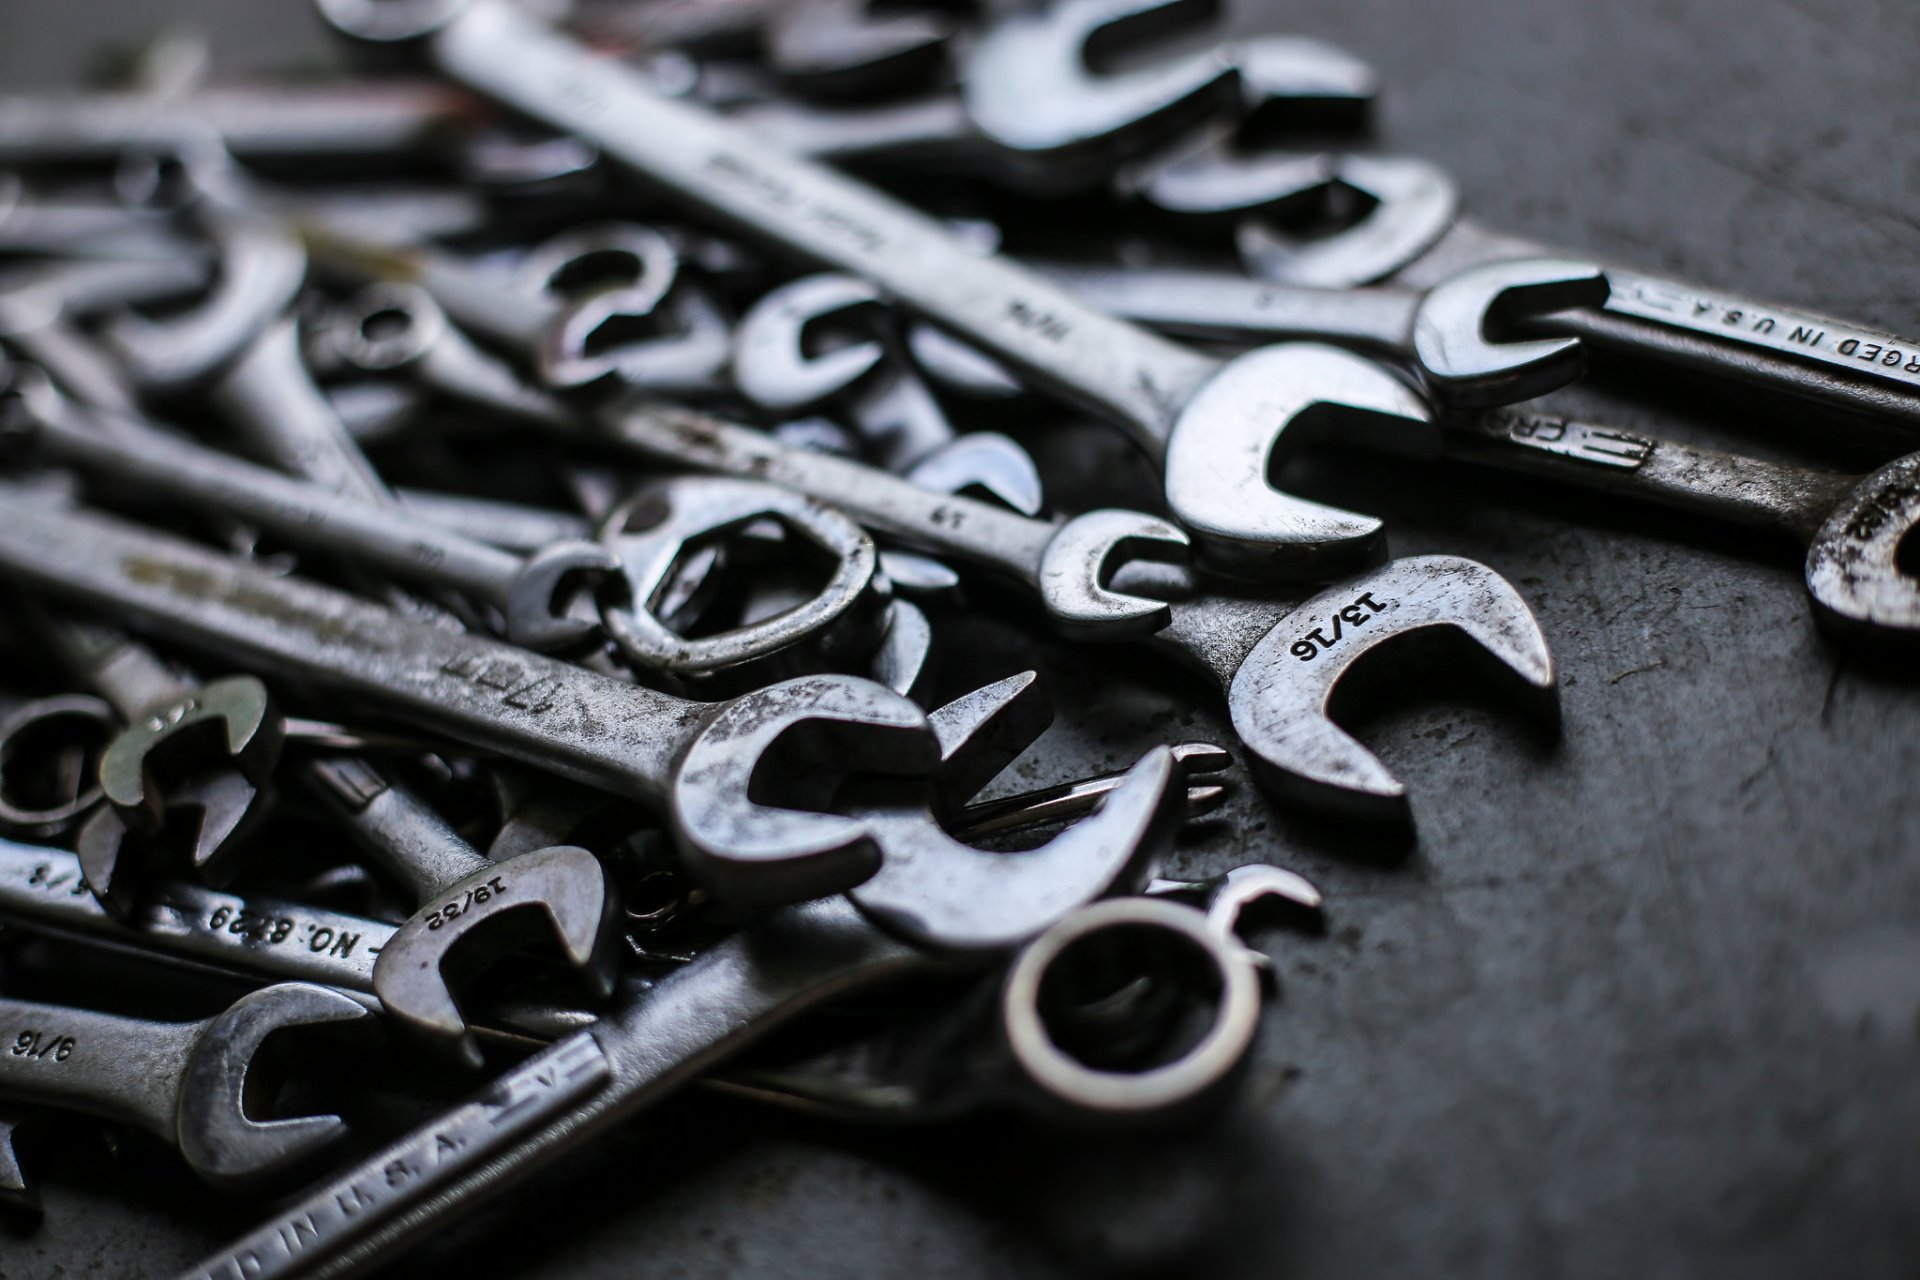
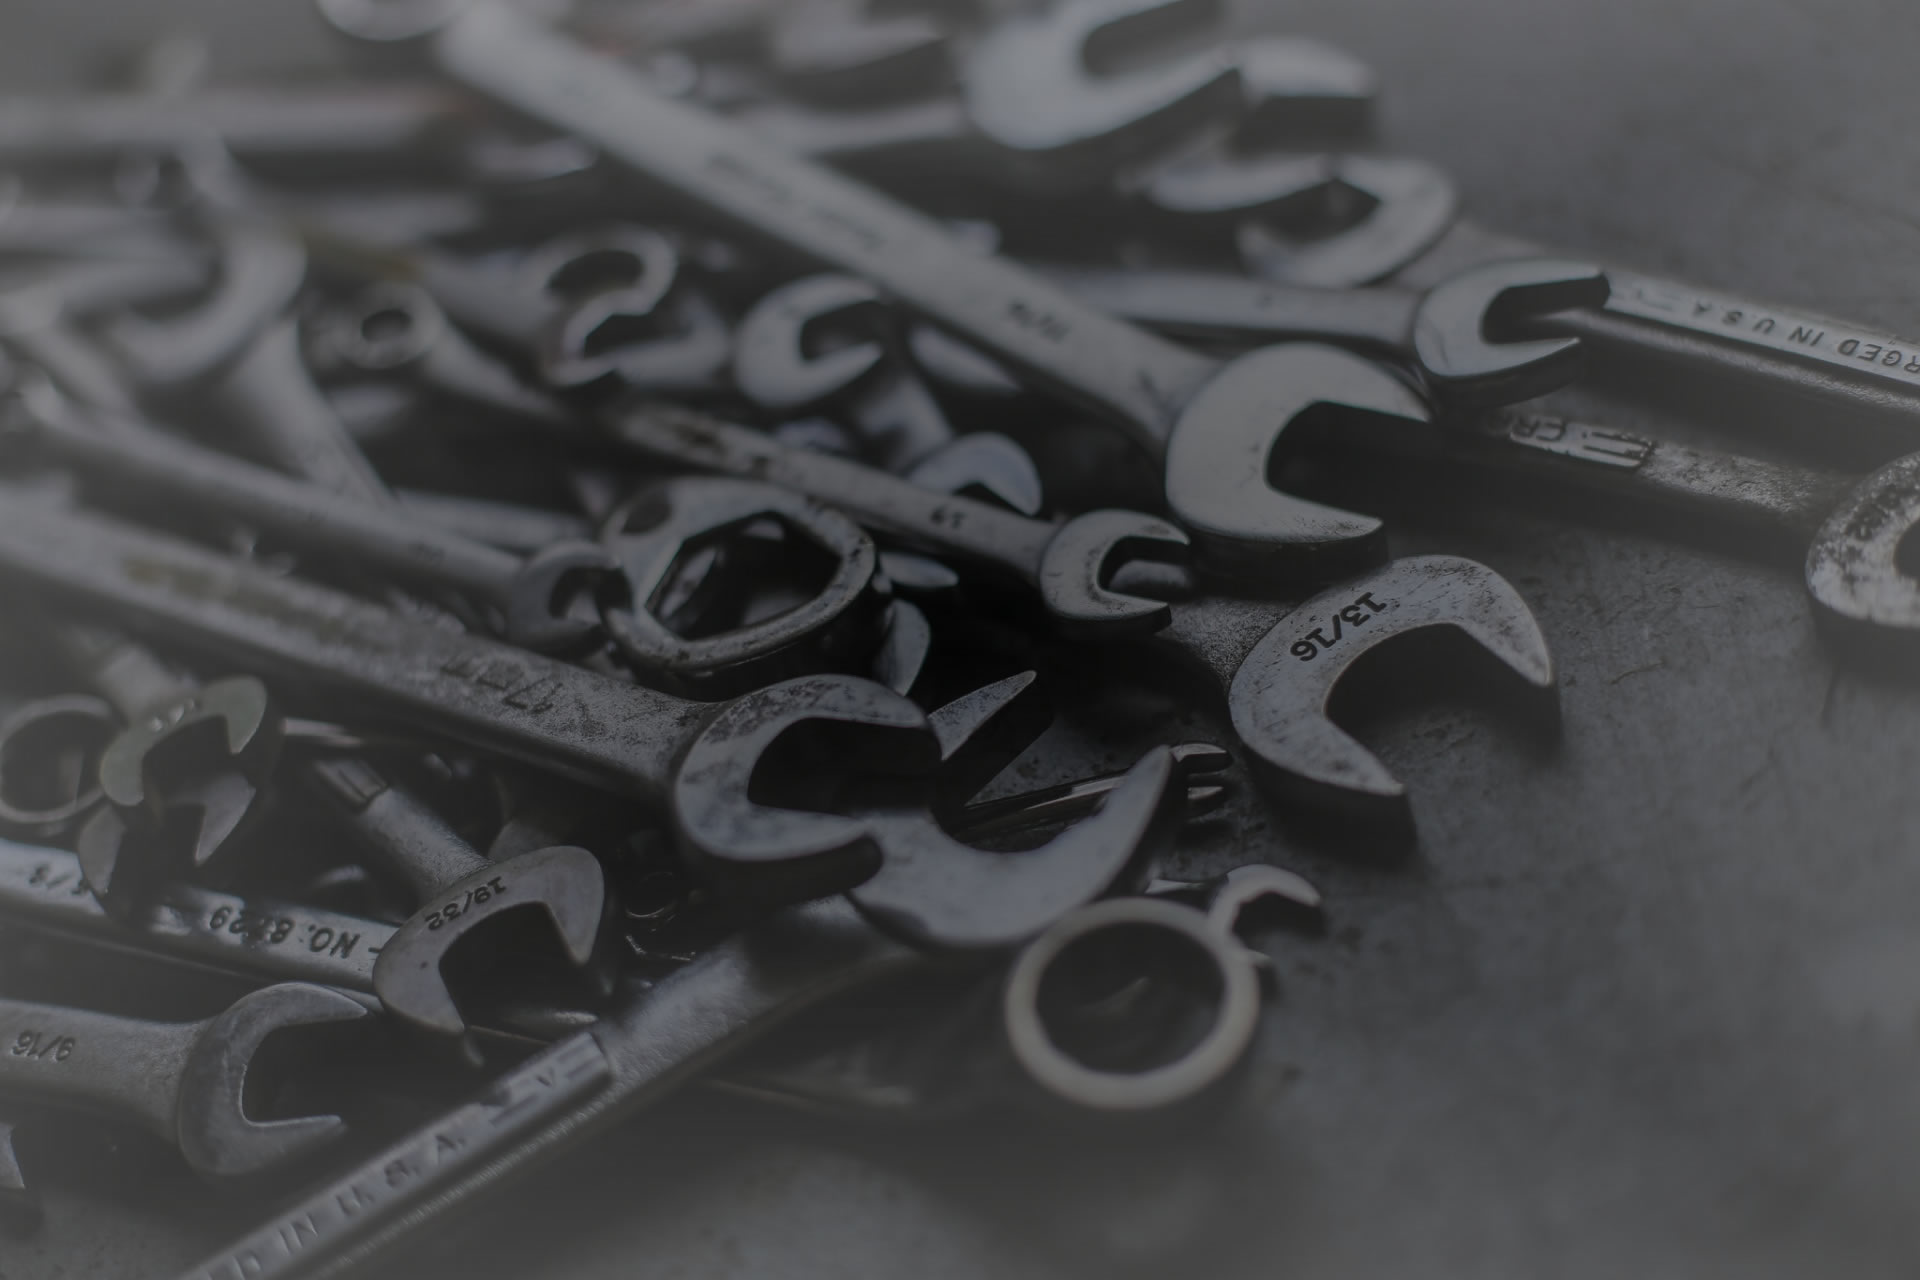
Lunes 13:21

diff --git a/public/stylesheets/style.css b/public/stylesheets/style.css
@@ -26,7 +26,14 @@ footer {
   align-items: center; }
 
 .cuadro2 {
-  background-image: url("../images/background_banner.png"); }
+  background-image: url("../images/banner_back.jpg");
+  background-position: center; }
+
+.subtitulo {
+  color: white; }
+
+.secciones {
+  color: white; }
 
 /*# sourceMappingURL=style.css.map */
 

diff --git a/public/stylesheets/style.scss b/public/stylesheets/style.scss
@@ -33,7 +33,16 @@ footer {
 }
 
 .cuadro2 {
-  background-image: url('../images/background_banner.png');
+  background-image: url('../images/banner_back.jpg');
+  background-position: center; 
+}
+
+.subtitulo {
+  color: white;
+}
+
+.secciones {
+  color: white;
 }
 
 /*# sourceMappingURL=style.css.map */
